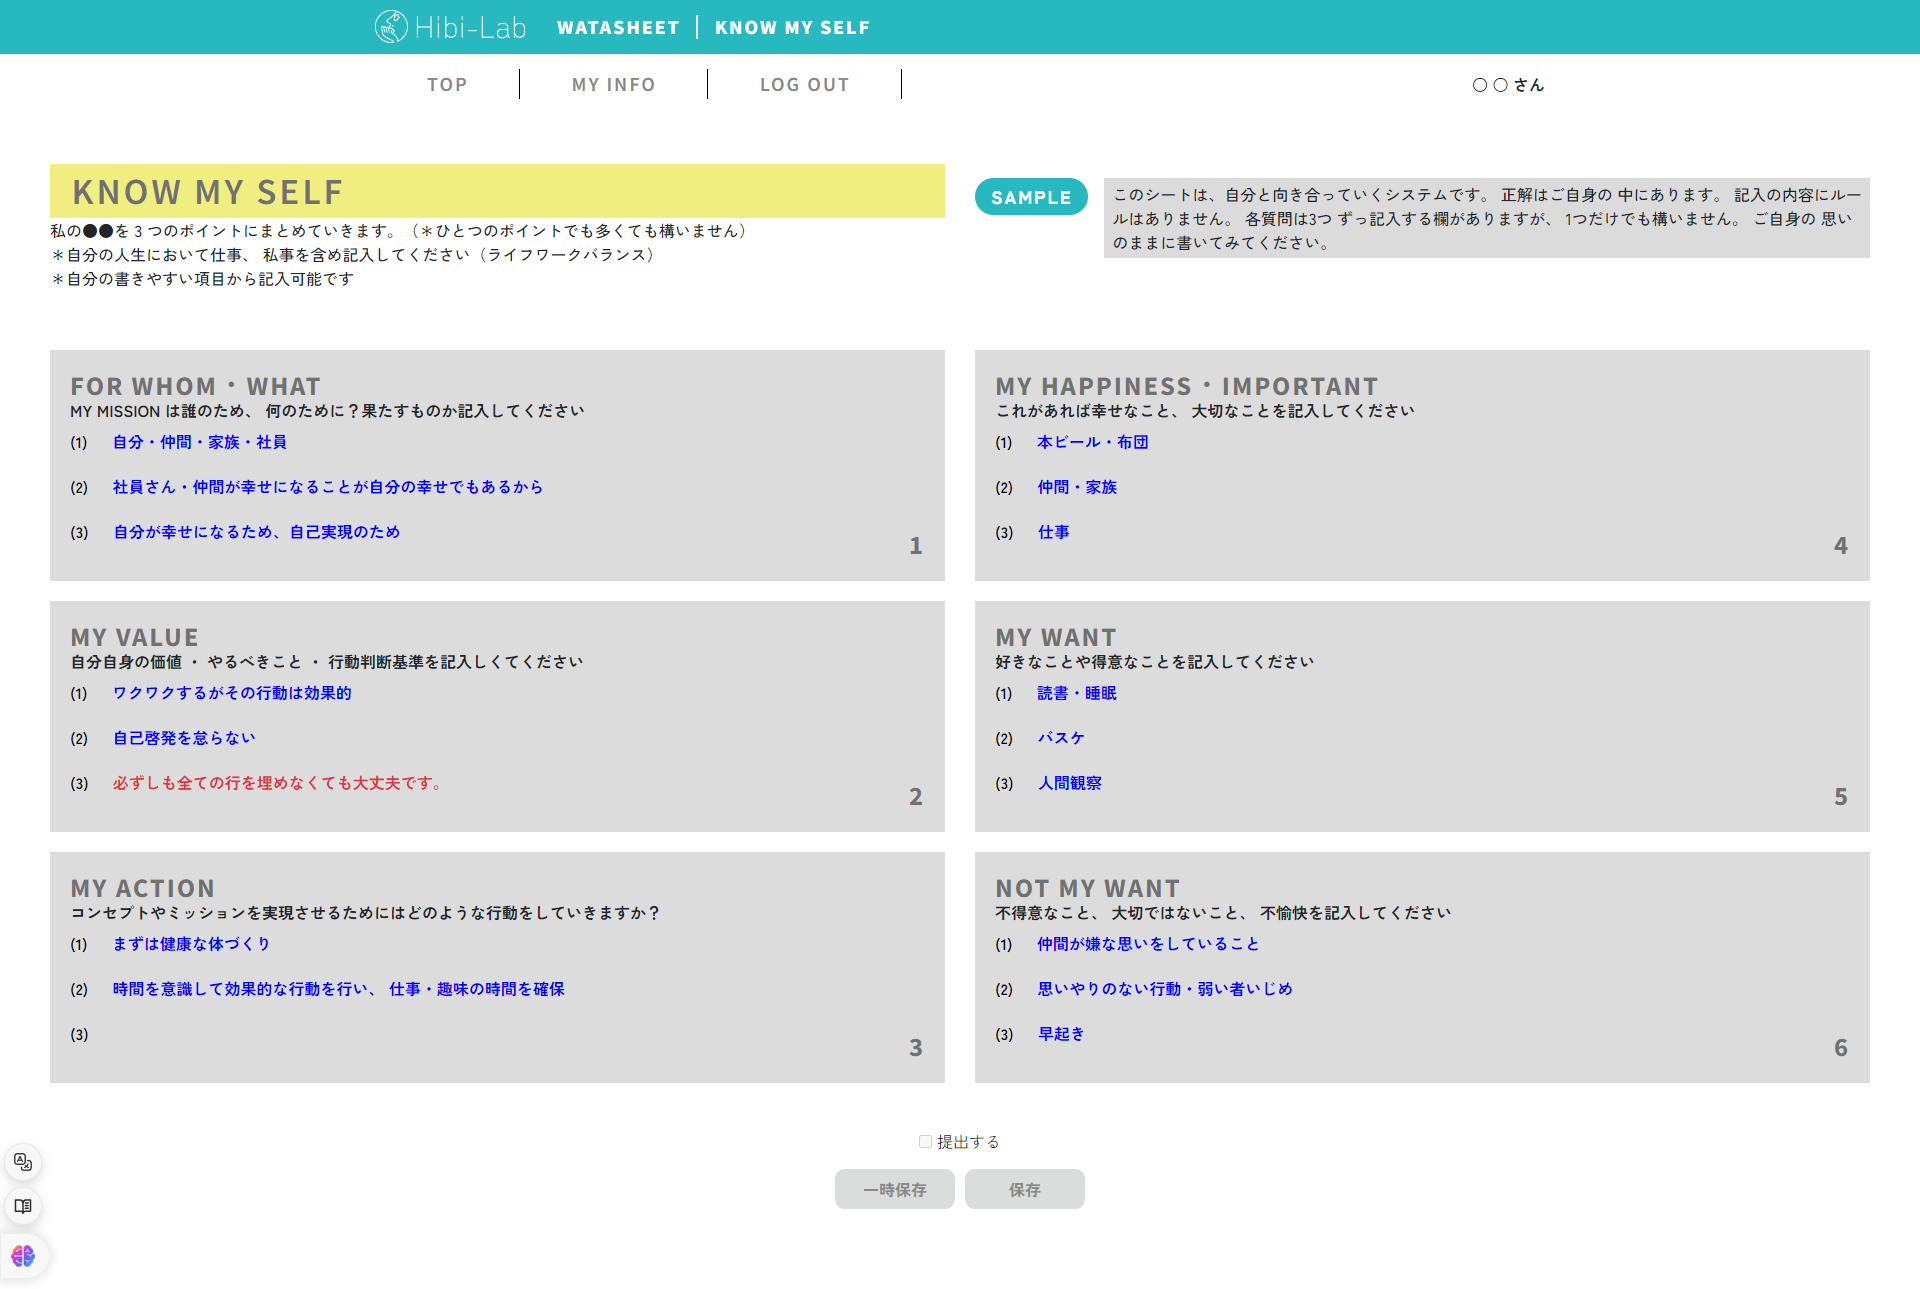
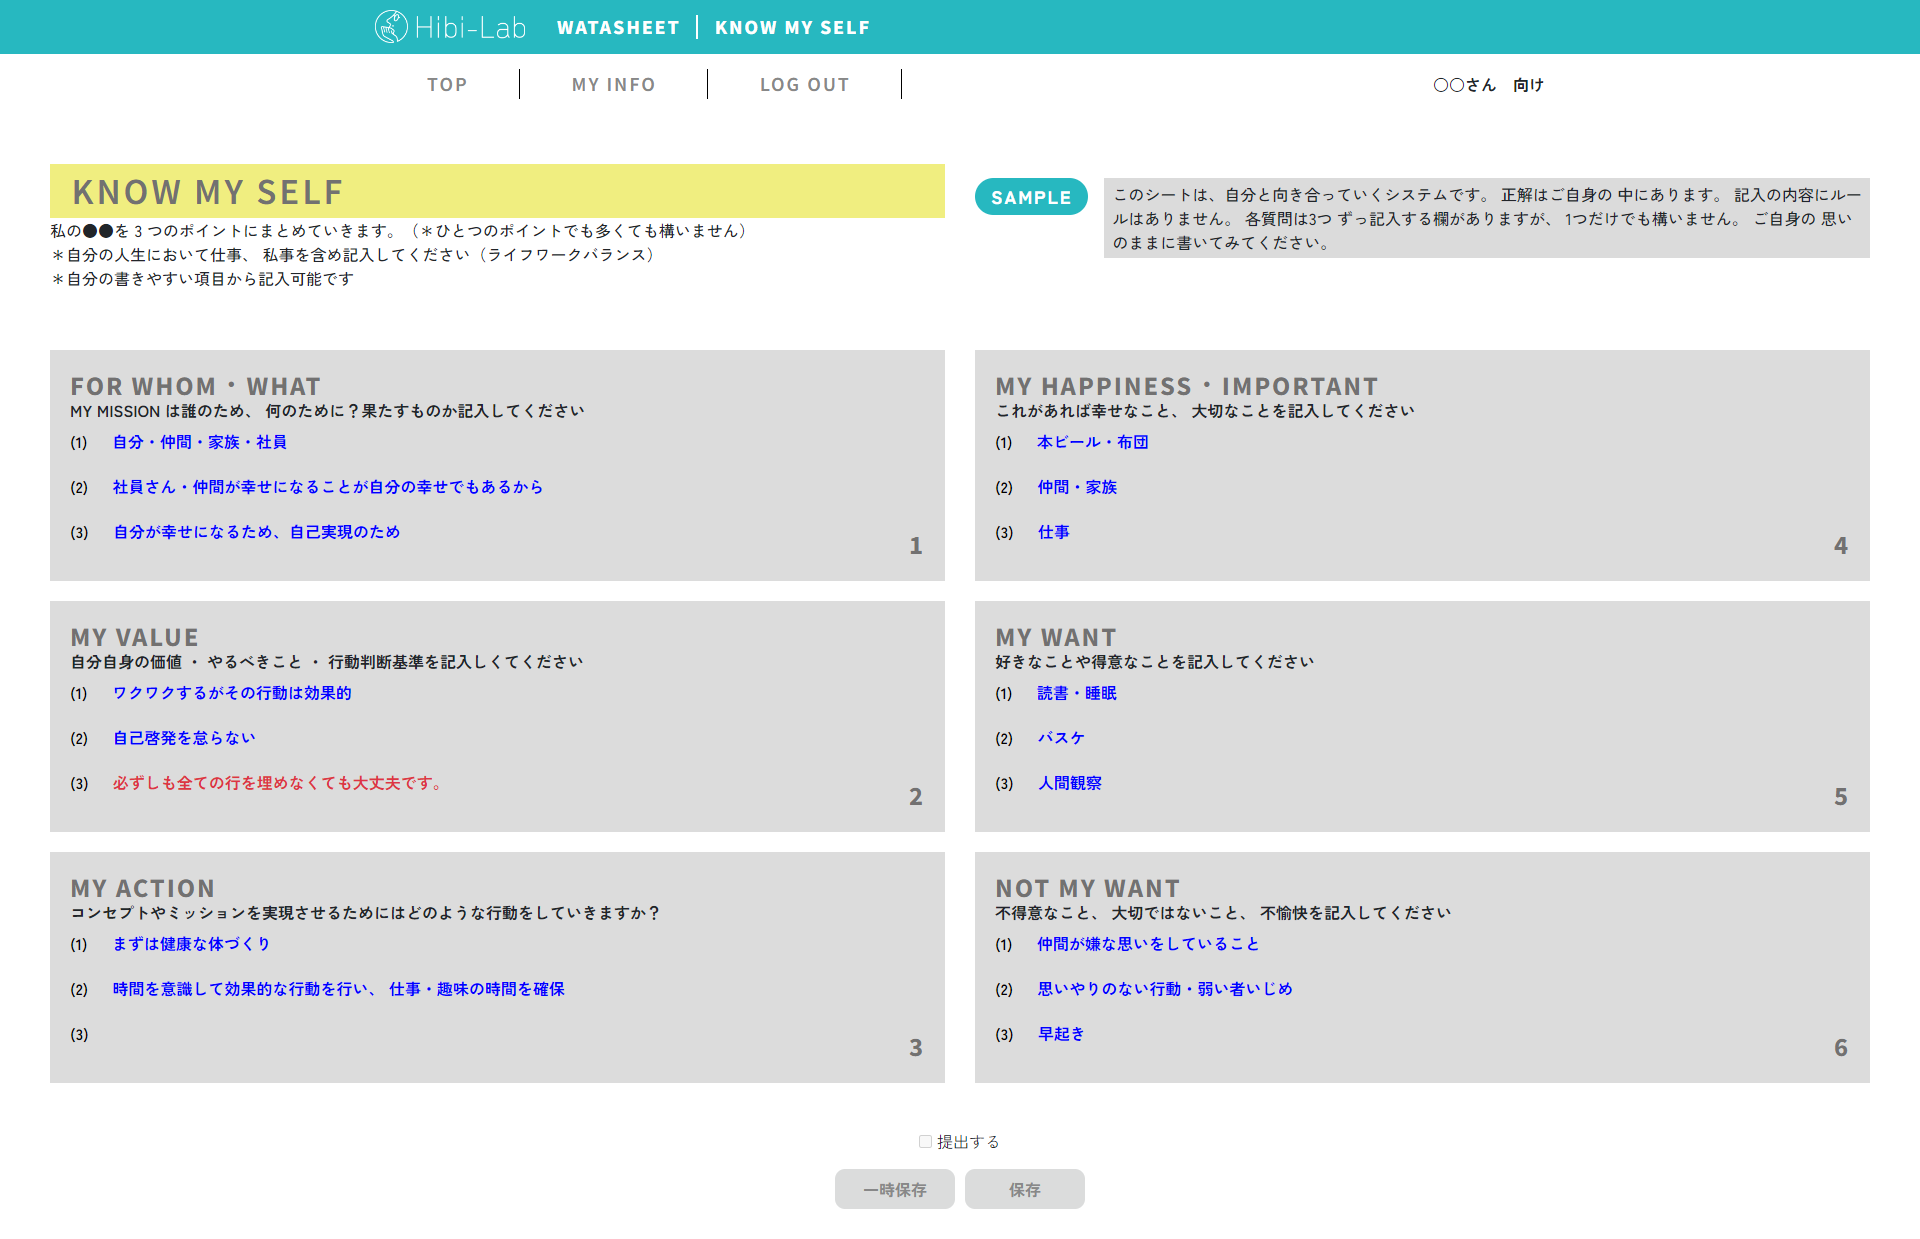
#223 update

diff --git a/hibiLaboSystem/templates/watasheet/watasheet.html b/hibiLaboSystem/templates/watasheet/watasheet.html
@@ -1073,16 +1073,16 @@
     </section>
 
     <!-- Modal -->
-<div class="modal fade px-3" id="exampleModal" tabindex="-1" role="dialog" aria-labelledby="exampleModalLabel" aria-hidden="true">
-    <div class="modal-dialog m-0 py-3" role="document" style="max-width: 100%;">
+<div class="modal fade px-0 h-100" id="exampleModal" tabindex="-1" role="dialog" aria-labelledby="exampleModalLabel" aria-hidden="true">
+    <div class="modal-dialog m-0 h-100" role="document" style="max-width: 100%;">
       <div class="modal-content h-100">
         <div class="modal-header">
           <button type="button" class="close" data-dismiss="modal" aria-label="Close">
             <span aria-hidden="true">&times;</span>
           </button>
         </div>
-        <div class="modal-body">
-            <img src="" alt="" srcset="" class="w-100" id="image-modal">
+        <div class="flex-fill d-flex" style="overflow: hidden;">
+             <img src="" alt=""  id="image-modal" class="h-100 w-100">
         </div>
       </div>
     </div>

diff --git a/hibiLaboSystem/templates/watasheet/watasheet_image.html b/hibiLaboSystem/templates/watasheet/watasheet_image.html
@@ -57,7 +57,7 @@
                       
                 </ul>
                 <p>
-                    ○ ○ さん
+                    ○○さん　向け
                 </p>
             </div>
         </div>
@@ -66,7 +66,7 @@
     <!-- コンテンツ -->
     
 <main class="bg-main bg-gray">
-    <section class="site-chart pd-main">
+    <section class="site-chart pd-main pb-0">
         <div class="container-fluid">
             <div class="section-title">
                 <div class="row align-items-baseline">

diff --git a/hibiLaboSystem/urls.py b/hibiLaboSystem/urls.py
@@ -46,7 +46,6 @@ urlpatterns = [
     path('mandara-completion-tab-detail/<id>', views.MandaraCompletionTabDetail.as_view(), name='mandara_completion_tab_detail'), #Display Detail
     
 	path('watasheet', views.Watasheet.as_view(), name="watasheet"),
-	path('watasheet-type', views.WatasheetType.as_view(), name="watasheet_type"),
-	path('watasheet-image', views.WatasheetImage.as_view(), name="watasheet_image")
+	path('watasheet-type', views.WatasheetType.as_view(), name="watasheet_type")
     
 ]

diff --git a/hibiLaboSystem/views.py b/hibiLaboSystem/views.py
@@ -2049,6 +2049,3 @@ class WatasheetType(TemplateView):
         context['team_concept'] = team_concept
 
         return self.render_to_response(context)
-
-class WatasheetImage(TemplateView):
-    template_name = "watasheet/watasheet_image.html"
